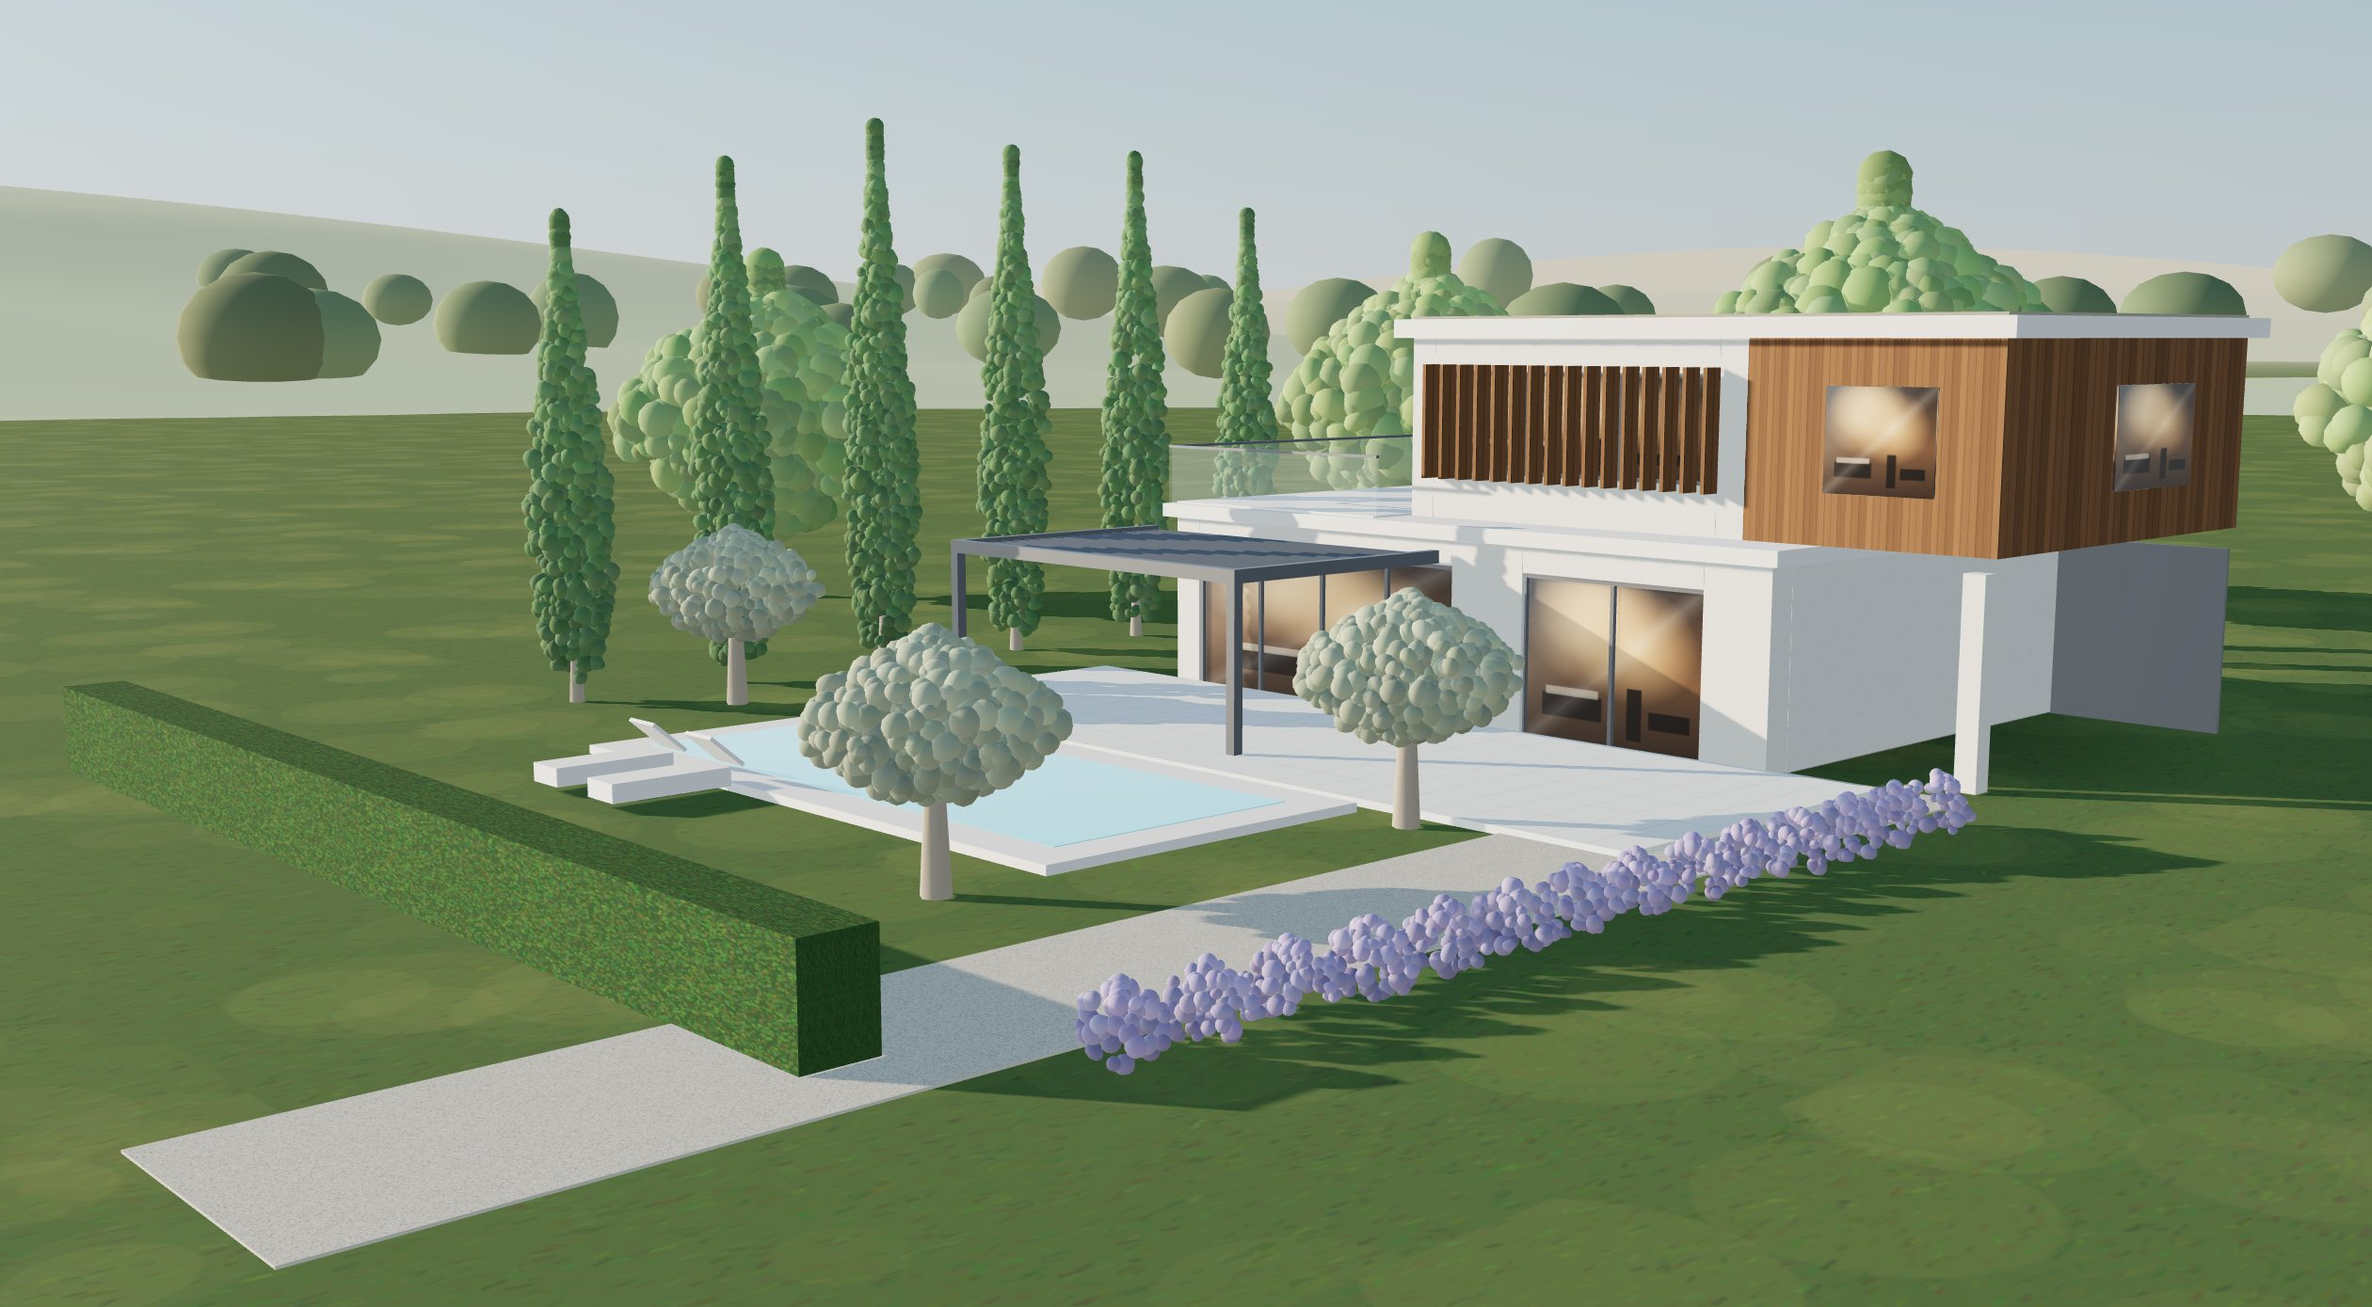
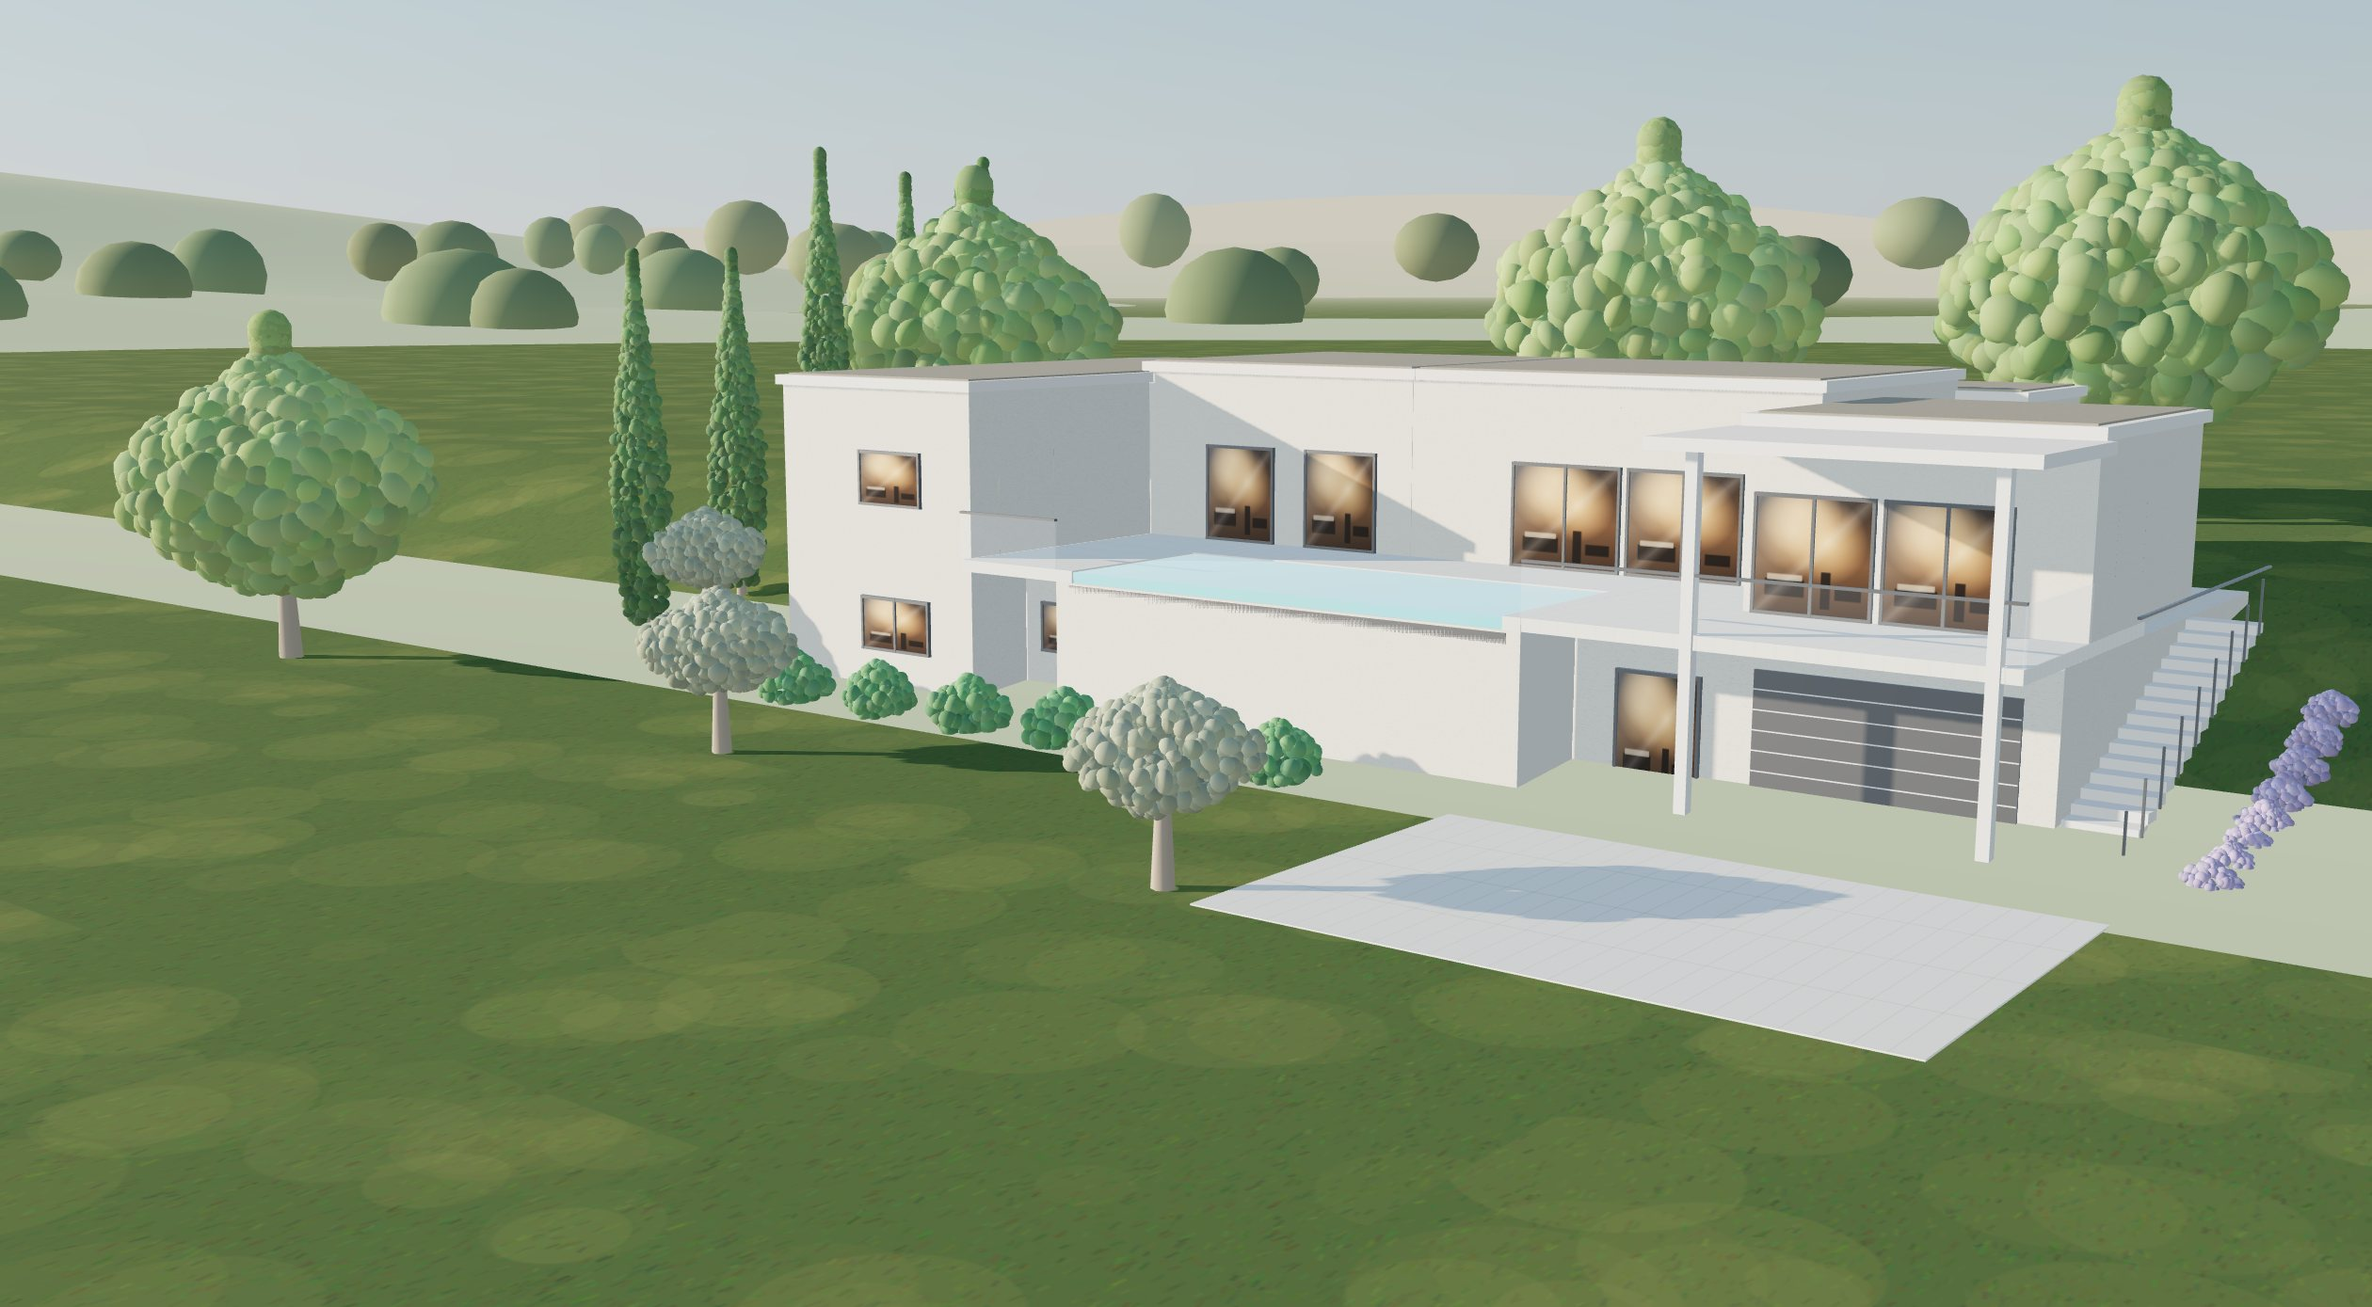
Guy Morice : villa sur sous-sol recréée en 3D d'après ses plans pour le héros
Claude-Session: https://claude.ai/code/session_0191xsoxjgtMMmfvh9j8GB2X

diff --git a/maquettes/guy-morice/morice.js b/maquettes/guy-morice/morice.js
@@ -293,7 +293,7 @@ var sun = new T.DirectionalLight(0xFFCF98, 3.0);
 sun.position.copy(sunDir).multiplyScalar(100);
 sun.castShadow = true;
 var SM = SMALL ? 2048 : 4096; sun.shadow.mapSize.set(SM, SM);
-var sc = sun.shadow.camera; sc.left = -36; sc.right = 36; sc.top = 32; sc.bottom = -32; sc.near = 30; sc.far = 220;
+var sc = sun.shadow.camera; sc.left = -44; sc.right = 44; sc.top = 40; sc.bottom = -40; sc.near = 30; sc.far = 220;
 sun.shadow.bias = -.00025; sun.shadow.normalBias = .025;
 scene.add(sun); scene.add(sun.target);
 scene.add(new T.HemisphereLight(0xBFD3EA, 0x5E5A40, .45));
@@ -347,16 +347,29 @@ function volume(x0, x1, y0, y1, z0, z1, mat, openings, depth) {
 }
 
 await pause();
-/* ---------- Terrain et horizon ---------- */
-var ground = new T.Mesh(new T.PlaneGeometry(1200, 1200), M.grass);
-ground.rotation.x = -Math.PI / 2; ground.receiveShadow = true; scene.add(ground);
+/* ---------- Terrain en pente et horizon ----------
+   La maison est celle d'un projet de l'atelier (villa sur sous-sol, plans RDC et sous-sol).
+   Coordonnées du plan : x de 0 à 27,87 m (cuisine à gauche du plan), z de 0 (côté piscine) vers l'arrière.
+   Monde : la façade piscine regarde +z, le plan est tourné de 180° pour retrouver la vue des rendus. */
+var PX = 13.9, PZ = 7;
+function wx(x) { return PX - x; }
+function wz(z) { return PZ - z; }
+function sm(t) { t = Math.min(1, Math.max(0, t)); return t * t * (3 - 2 * t); }
+function groundAt(worldZ) { var z = PZ - worldZ; return 3.0 * sm((z - 1.0) / 14); }
+(function () {
+  var g = new T.PlaneGeometry(1200, 1200, 1, 300); g.rotateX(-Math.PI / 2);
+  var p = g.attributes.position;
+  for (var i = 0; i < p.count; i++) p.setY(i, groundAt(p.getZ(i)));
+  g.computeVertexNormals();
+  var m = new T.Mesh(g, M.grass); m.receiveShadow = true; scene.add(m);
+})();
 (function () { // coteaux lointains
   var g = new T.PlaneGeometry(2200, 2200, 180, 180); g.rotateX(-Math.PI / 2);
   var p = g.attributes.position;
   for (var i = 0; i < p.count; i++) {
     var x = p.getX(i), z = p.getZ(i), d = Math.hypot(x, z);
     var k = Math.min(1, Math.max(0, (d - 170) / 260));
-    p.setY(i, (Math.sin(x * .009) * 10 + Math.sin(z * .007 + 1.3) * 14 + Math.sin((x + z) * .018) * 5 + 16) * k - .3);
+    p.setY(i, (Math.sin(x * .009) * 10 + Math.sin(z * .007 + 1.3) * 14 + Math.sin((x + z) * .018) * 5 + 16) * k - .3 + groundAt(z) * (1 - k));
   }
   g.computeVertexNormals();
   scene.add(new T.Mesh(g, new T.MeshStandardMaterial({ color: 0x6E7A4E, roughness: 1 })));
@@ -371,43 +384,86 @@ ground.rotation.x = -Math.PI / 2; ground.receiveShadow = true; scene.add(ground)
 })();
 
 await pause();
-/* ---------- Maison ---------- */
-var H1 = 3.2, H2 = 3.1, Y2 = H1 + .25;
-// rez-de-chaussée, x -8..5, baies du séjour plein sud
-volume(-8, 5, 0, H1, -4.5, 4.5, M.render, [{ x0: -7.4, x1: -1.2, y0: 0, y1: 2.75 }, { x0: .3, x1: 3.8, y0: 0, y1: 2.75 }], .55);
-box(13.4, .25, 9.4, -1.5, H1, 0, M.coping);
-// étage : partie enduite (x -3..3.8) avec fenêtre en bandeau, partie bardée bois (x 3.8..8) en porte-à-faux
-volume(-3, 3.8, Y2, Y2 + H2, -4.5, 3.5, M.render, [{ x0: -2.5, x1: 3.3, y0: Y2 + .8, y1: Y2 + 2.55 }], .5);
-box(4.2, H2, 8, 5.9, Y2, -.5, woodMat(3, 2.4));
-box(1.8, 1.6, .05, 6.1, Y2 + .8, 3.53, M.win, { noCast: true });
-box(.05, 1.6, 2.6, 8.03, Y2 + .8, -1.2, M.win, { noCast: true });
-box(11.5, .32, 8.5, 2.5, Y2 + H2, -.5, M.coping);
-box(11, .05, 8, 2.5, Y2 + H2 + .32, -.5, M.roof, { noCast: true });
-// brise-soleil verticaux en bois devant le bandeau
-var fins = woodMat(.15, 1);
-for (var i = 0; i < 16; i++) box(.07, 1.95, .36, -2.4 + i * .38, Y2 + .7, 3.72, fins);
-// auvent / garage sous le porte-à-faux
-box(.35, H1, .35, 7.6, 0, 3.2, M.render);
-box(2.9, H1 - .1, .08, 6.5, 0, -4.4, M.alu);
-// toit-terrasse ouest : garde-corps vitré
-box(5.2, 1.05, .05, -5.4, H1 + .25, 4.62, M.balcony, { noCast: true });
-box(.05, 1.05, 9.2, -8.1, H1 + .25, 0, M.balcony, { noCast: true });
-box(5.2, .05, .07, -5.4, H1 + 1.3, 4.62, M.alu);
-box(.07, .05, 9.2, -8.1, H1 + 1.3, 0, M.alu);
-box(5, .04, 9, -5.5, H1 + .25, 0, M.tiles, { noCast: true });
-// pergola bioclimatique à lames
-var px0 = -8.4, px1 = -1.4, pz0 = 4.7, pz1 = 9.4;
-[[px0, pz1], [px1, pz1]].forEach(function (p) { box(.18, 2.9, .18, p[0], 0, p[1], M.alu); });
-box(px1 - px0 + .18, .22, .18, (px0 + px1) / 2, 2.8, pz1, M.alu);
-box(.16, .22, pz1 - pz0, px0, 2.8, (pz0 + pz1) / 2, M.alu);
-box(.16, .22, pz1 - pz0, px1, 2.8, (pz0 + pz1) / 2, M.alu);
-for (i = 0; i < 18; i++) { var sl = box(px1 - px0 - .2, .03, .2, (px0 + px1) / 2, 2.88, pz0 + .2 + i * .26, M.alu); sl.rotation.x = .55; }
-// terrasse, piscine, plage
-box(17, .12, 6, -1.6, 0, 7.5, M.tiles, { noCast: true });
-box(11.4, .14, 5.6, -3.2, 0, 13.6, M.coping, { noCast: true });
-box(10, .03, 4.2, -3.2, .12, 13.6, M.water, { noCast: true });
-[-6.4, -4.8].forEach(function (x) { box(.7, .28, 1.9, x, .14, 17.5, M.coping); var b = box(.7, .06, .7, x, .62, 16.6, M.coping); b.rotation.x = -.7; });
-box(3.2, .03, 24, 6.4, 0, 16, M.gravel, { noCast: true });
+/* ---------- La villa, d'après les plans ---------- */
+// bloc en coordonnées du plan
+function pbox(x0, x1, z0, z1, y0, y1, mat, opt) { return box(x1 - x0, y1 - y0, z1 - z0, wx((x0 + x1) / 2), y0, wz((z0 + z1) / 2), mat, opt); }
+// ouverture sur une face « avant » (plan z = zf, regardant la piscine) ou « arrière »
+function bayZ(x0, x1, zf, y0, y1, back) {
+  var s = back ? -1 : 1, z = wz(zf) + s * .035, w = x1 - x0, cx = wx((x0 + x1) / 2), h = y1 - y0;
+  box(w, h, .05, cx, y0, z, M.win, { noCast: true });
+  var n = Math.max(1, Math.round(w / 1.2));
+  for (var k = 0; k <= n; k++) box(.06, h, .09, wx(x0 + k * (w / n)), y0, z + s * .02, M.alu, { noCast: true });
+  box(w + .06, .07, .1, cx, y1 - .07, z + s * .02, M.alu, { noCast: true }); box(w + .06, .06, .1, cx, y0, z + s * .02, M.alu, { noCast: true });
+}
+function bayX(xf, z0, z1, y0, y1, left) { // sur une face latérale (plan x = xf)
+  var s = left ? 1 : -1, x = wx(xf) + s * .035, d = z1 - z0, cz = wz((z0 + z1) / 2), h = y1 - y0;
+  box(.05, h, d, x, y0, cz, M.win, { noCast: true });
+  var n = Math.max(1, Math.round(d / 1.2));
+  for (var k = 0; k <= n; k++) box(.09, h, .06, x + s * .02, y0, wz(z0 + k * (d / n)), M.alu, { noCast: true });
+  box(.1, .07, d + .06, x + s * .02, y1 - .07, cz, M.alu, { noCast: true });
+}
+var L0 = 3.0, L1 = 3.25; // niveau du rez-de-chaussée (dessus de dalle)
+// Sous-sol : aile droite, partie centrale en retrait, bassin de la piscine en saillie
+pbox(22.15, 27.87, .3, 13.4, 0, L1, M.render);
+pbox(0, 22.15, 2.0, 13.4, 0, L0, M.render);
+pbox(8.7, 19.5, 0, 2.0, 0, L0, M.render);
+// ouvertures du sous-sol
+pbox(.6, 5.2, 1.94, 2.0, 0, 2.45, M.alu, { noCast: true });            // porte de garage
+for (var gi = 0; gi < 6; gi++) pbox(.6, 5.2, 1.9, 1.94, .3 + gi * .36, .32 + gi * .36, M.coping, { noCast: true });
+bayZ(6.2, 7.8, 2.0, 0, 2.2);                                            // porte vitrée
+bayZ(20.0, 21.6, 2.0, 1.1, 2.2);
+bayZ(23.4, 25.4, .3, 1.0, 2.2);
+// dalle du rez-de-chaussée, terrasse et piscine à débordement
+pbox(0, 8.7, 0, 6.3, L0, L1, M.tiles);
+pbox(19.5, 22.15, 0, 6.3, L0, L1, M.tiles);
+pbox(8.7, 19.5, 4.0, 6.3, L0, L1, M.tiles);
+pbox(8.7, 9.075, 0, 4.0, L0, L1, M.tiles);
+pbox(19.075, 19.5, 0, 4.0, L0, L1, M.tiles);
+pbox(9.075, 19.075, .04, 4.0, L0 - .2, L1 - .03, M.water, { noCast: true });
+pbox(9.0, 19.15, 0, .04, L0 - .25, L0 - .05, M.alu, { noCast: true });   // goulotte de débordement
+// garde-corps vitrés
+function glass(x0, x1, z0, z1) { pbox(x0, x1, z0, z1, L1, L1 + 1.0, M.balcony, { noCast: true }); }
+glass(0, 8.7, -.02, .03); glass(19.5, 22.15, -.02, .03); glass(-.03, .02, 0, 3.16);
+pbox(0, 8.7, -.04, .05, L1 + .98, L1 + 1.03, M.alu); pbox(19.5, 22.15, -.04, .05, L1 + .98, L1 + 1.03, M.alu);
+// volumes du rez-de-chaussée (hauteurs relevées sur les façades)
+var blocks = [
+  [0, 6.0, 3.16, 9.16, 6.55],      // cuisine
+  [6.0, 15.0, 6.3, 13.4, 7.0],     // salon
+  [15.0, 22.15, 6.3, 13.4, 7.0],   // chambres
+  [22.15, 27.87, .3, 13.4, 6.75],  // aile des chambres
+  [4.6, 10.1, 13.4, 17.1, 6.55]    // entrée et escalier
+];
+blocks.forEach(function (b) {
+  pbox(b[0], b[1], b[2], b[3], b[0] > 22 ? L1 : L1, b[4], M.render);
+  pbox(b[0] - .12, b[1] + .12, b[2] - .12, b[3] + .12, b[4], b[4] + .22, M.coping);
+  pbox(b[0] + .1, b[1] - .1, b[2] + .1, b[3] - .1, b[4] + .22, b[4] + .26, M.roof, { noCast: true });
+});
+// baies côté piscine
+bayZ(1.3, 3.45, 3.16, L1, L1 + 2.15); bayZ(3.65, 5.8, 3.16, L1, L1 + 2.15);
+bayZ(7.5, 9.9, 6.3, L1, L1 + 2.15); bayZ(10.1, 12.5, 6.3, L1, L1 + 2.15);
+bayZ(15.9, 17.7, 6.3, L1, L1 + 2.15); bayZ(18.6, 20.4, 6.3, L1, L1 + 2.15);
+bayZ(23.6, 25.4, .3, L1 + .95, L1 + 2.15);
+bayX(22.15, 1.2, 3.0, L1, L1 + 2.15);
+// façades latérales et arrière
+bayX(27.87, 2.0, 3.8, L1 + .95, L1 + 2.15, true); bayX(27.87, 7.4, 9.0, L1 + .95, L1 + 2.15, true); bayX(27.87, 10.6, 11.8, L1 + .95, L1 + 2.15, true);
+bayZ(16.0, 17.5, 13.4, L1 + .95, L1 + 2.15, true); bayZ(19.0, 20.5, 13.4, L1 + .95, L1 + 2.15, true); bayZ(23.2, 24.7, 13.4, L1 + .95, L1 + 2.15, true);
+bayZ(6.4, 7.4, 17.1, L1, L1 + 2.15, true);
+bayX(0, 4.4, 6.0, L1 + .9, L1 + 2.15);
+// auvent sur colonnes devant la cuisine (terrasse couverte et garage)
+pbox(-.25, 6.25, -.45, 3.16, 6.33, 6.55, M.coping);
+[[.45, .05], [5.55, .05]].forEach(function (c) { var m = pbox(c[0] - .11, c[0] + .11, c[1] - .11, c[1] + .11, 0, 6.33, M.coping); });
+// escalier extérieur le long de la façade du garage
+(function () {
+  var n = 17;
+  for (var i = 0; i < n; i++) {
+    var z0 = 1.2 + i * .47, y = (i + 1) * (L0 / n);
+    pbox(-1.25, -.05, z0, z0 + .47, Math.max(0, y - .18), y, M.coping);
+  }
+  pbox(-1.32, -1.26, 1.2, 1.2 + n * .47, L0 + 1.0, L0 + 1.04, M.alu); // main courante (simplifiée)
+  for (i = 0; i <= n; i += 2) { var zz = 1.2 + i * .47; pbox(-1.31, -1.27, zz, zz + .04, (i * L0 / n), (i * L0 / n) + 1.02, M.alu, { noCast: true }); }
+})();
+// cour pavée devant le garage
+pbox(-2.0, 9.0, -9.0, 2.0, 0, .03, M.tiles, { noCast: true });
 
 await pause();
 /* ---------- Végétation : feuillage en milliers de touffes ---------- */
@@ -429,44 +485,45 @@ function foliage(cx, cy, cz, h, shape, count, size, hue, sat, lum) {
   im.instanceMatrix.needsUpdate = true; if (im.instanceColor) im.instanceColor.needsUpdate = true;
   im.castShadow = true; im.receiveShadow = true; scene.add(im); return im;
 }
-function trunk(x, z, h, r) { var t = new T.Mesh(new T.CylinderGeometry(r * .6, r, h, 7), M.bark); t.position.set(x, h / 2, z); t.castShadow = true; scene.add(t); }
+function trunk(x, z, h, r) { var y0 = groundAt(z); var t = new T.Mesh(new T.CylinderGeometry(r * .6, r, h, 7), M.bark); t.position.set(x, y0 + h / 2, z); t.castShadow = true; scene.add(t); }
 function tree(x, z, h, r, hue, lum) {
   trunk(x, z, h * .55, r * .09);
-  var H = r * 1.9;
-  foliage(x, h * .45, z, H, function (u) { return r * Math.sin(Math.PI * Math.min(1, u * 1.05 + .08)) * 1.05; }, 1500, r * .14, hue, .45, lum);
+  foliage(x, groundAt(z) + h * .45, z, r * 1.9, function (u) { return r * Math.sin(Math.PI * Math.min(1, u * 1.05 + .08)) * 1.05; }, 1500, r * .14, hue, .45, lum);
 }
 function olive(x, z) {
   trunk(x, z, 1.5, .2);
-  foliage(x, 1.3, z, 1.8, function (u) { return 1.5 * Math.sin(Math.PI * (u * .9 + .1)); }, 700, .17, .2, .18, .34);
+  foliage(x, groundAt(z) + 1.3, z, 1.8, function (u) { return 1.5 * Math.sin(Math.PI * (u * .9 + .1)); }, 700, .17, .2, .18, .34);
 }
 function cypress(x, z, h) {
   trunk(x, z, 1, .14);
-  foliage(x, .4, z, h, function (u) { return .85 * Math.sin(Math.PI * Math.min(1, .15 + u * .9)) * (1 - u * .55); }, 900, .17, .28, .42, .19);
+  foliage(x, groundAt(z) + .4, z, h, function (u) { return .85 * Math.sin(Math.PI * Math.min(1, .15 + u * .9)) * (1 - u * .55); }, 900, .17, .28, .42, .19);
 }
+function bush(x, z, r, hue, sat, lum) { foliage(x, groundAt(z), z, r * 1.3, function (u) { return r * Math.sin(Math.PI * (u * .8 + .2)); }, 160, r * .22, hue, sat, lum); }
 await pause();
-tree(-17, -13, 4.5, 3.6, .24, .3); tree(-6, -17, 5.5, 4.2, .25, .27); tree(9, -16, 5, 3.8, .23, .31);
-tree(20, -6, 4, 3.2, .22, .33); tree(-26, 2, 4.2, 3.4, .25, .28); tree(25, 11, 3.6, 3, .23, .32);
-olive(3.6, 11); olive(-11.6, 12); olive(2.4, 18);
-for (i = 0; i < 6; i++) cypress(-13.8, -3 + i * 3.4, rr(8, 10.5));
-box(20, 1.3, .9, -3, 0, 22.5, M.hedge);
-for (var lv = 0; lv < 14; lv++) { // lavandes le long de l'allée
-  foliage(8.6, .05, 6 + lv * 1.12, .7, function (u) { return .5 * Math.sin(Math.PI * (u * .8 + .2)); }, 70, .1, .72, .22, .42);
-}
-(function () { // ombre de contact sous la maison
-  var m = new T.Mesh(new T.PlaneGeometry(21, 15), new T.MeshBasicMaterial({ map: TX.ao(), transparent: true, depthWrite: false }));
-  m.rotation.x = -Math.PI / 2; m.position.set(-.8, .015, .2); scene.add(m);
+// grands arbres derrière la maison, sur le haut du terrain
+tree(-4, -16, 5, 4, .24, .3); tree(8, -18, 5.5, 4.2, .25, .27); tree(22, -12, 4.8, 3.8, .23, .31);
+tree(-20, -6, 4.5, 3.6, .25, .28); tree(30, 4, 4, 3.4, .23, .32); tree(-26, 12, 4, 3.2, .24, .3);
+// oliviers et cyprès sur le jardin bas
+olive(-9, 13); olive(4, 15.5); olive(-20, 4);
+for (var ci = 0; ci < 5; ci++) cypress(-21.5, -8 + ci * 3.2, rr(8, 10.5));
+// massifs le long de la façade et lavandes devant la cour
+for (var bi = 0; bi < 6; bi++) bush(-12 + bi * 2.6, 8.4, .8, .33, .4, .26);
+for (var lv = 0; lv < 8; lv++) bush(16.6, -1 + lv * 1.05, .42, .72, .22, .42);
+(function () { // ombre de contact au pied de la maison
+  var m = new T.Mesh(new T.PlaneGeometry(34, 4), new T.MeshBasicMaterial({ map: TX.ao(), transparent: true, depthWrite: false, opacity: .8 }));
+  m.rotation.x = -Math.PI / 2; m.position.set(0, .02, 6.3); scene.add(m);
 })();
 
 await pause();
 /* ---------- Caméra : lent travelling, sans interaction ---------- */
-var CAM = { az: .6, el: .1, R: 38, cx: -.5, cy: 2.6, cz: 2.5, sx: 0, sy: 0 };
+var CAM = { az: .55, el: .12, R: 48, cx: 0, cy: 3.4, cz: 1, sx: 0, sy: 0 };
 // sx / sy décalent le cadrage : la maison se place en haut à droite, le titre en bas à gauche
 function fit() {
   var w = stage.clientWidth, h = stage.clientHeight;
   renderer.setSize(w, h, false); camera.aspect = w / h;
   var narrow = camera.aspect < 1.1;
   camera.fov = narrow ? 44 : 32; camera.updateProjectionMatrix();
-  CAM.R = narrow ? 37 : 40; CAM.sx = narrow ? -1.2 : 6.5; CAM.sy = narrow ? -1.4 : -1.6;
+  CAM.R = narrow ? 50 : 48; CAM.sx = narrow ? 0 : 5.5; CAM.sy = narrow ? -1.5 : -2.2;
 }
 function place(t) {
   var a = CAM.az + (REDUCE ? 0 : Math.sin(t * .045) * .07), r = CAM.R - (REDUCE ? 0 : (1 - Math.cos(t * .03)) * 1.2);

diff --git a/maquettes/guy-morice/index.html b/maquettes/guy-morice/index.html
@@ -309,8 +309,8 @@ body.viewing{overflow:hidden}
 
 <main id="top">
 <section class="hero" id="frame" aria-labelledby="nom">
-  <div class="stage" role="img" aria-label="Rendu 3D d'une maison contemporaine à deux niveaux, façade blanche et bardage bois, piscine et oliviers, en fin de journée dans les coteaux de l'Agenais."></div>
-  <span class="hero-tag">Esquisse 3D</span>
+  <div class="stage" role="img" aria-label="Maquette 3D d'une villa de Guy Morice : deux niveaux sur un terrain en pente, piscine à débordement en terrasse, en fin de journée."></div>
+  <span class="hero-tag">Villa sur sous-sol, projet de l'atelier en 3D</span>
   <div class="hero-copy">
     <div class="wrap">
       <h1 id="nom" class="sf">Guy Morice<em>architecte à Estillac</em></h1>
